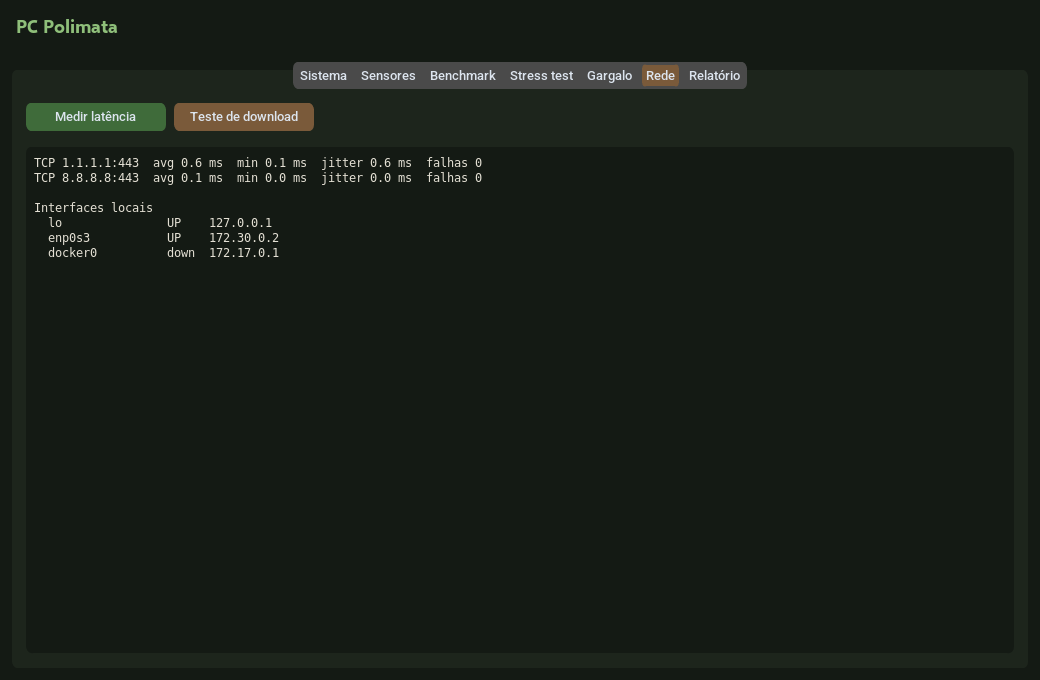
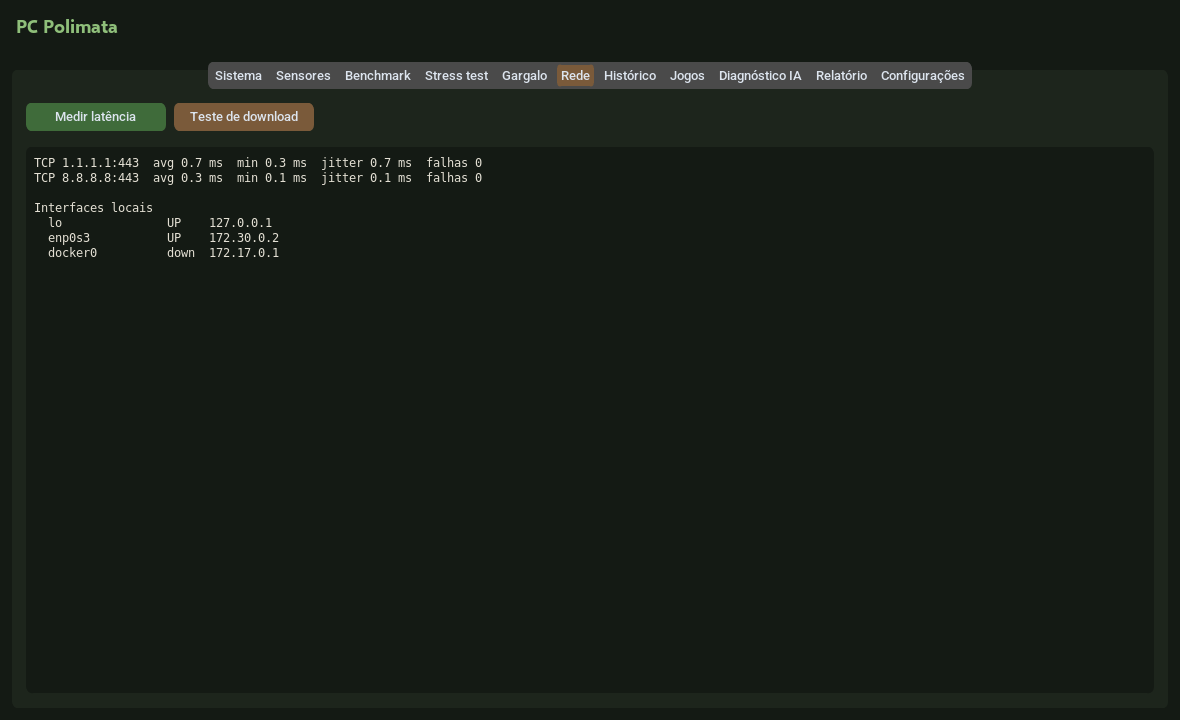
feat(gui): adaptive history chart, CPU/GPU pickers in Jogos and local timestamps
Also refreshes the README screenshots for every tab; demo actions live in scripts/screenshot.py, not in product code.

Changed region(s): [[0.0308, 0.0618, 0.8308, 0.4015], [0.0, 0.0309, 0.1231, 0.0618]]

diff --git a/pc_polimata/gui/tabs/history.py b/pc_polimata/gui/tabs/history.py
@@ -1,5 +1,7 @@
 from __future__ import annotations
 
+from datetime import datetime
+
 import customtkinter as ctk
 
 from pc_polimata.core.history import PRIMARY_METRICS, compare, series
@@ -9,6 +11,10 @@ from pc_polimata.gui.widgets import LineChart, button, fmt, set_text, textbox
 from pc_polimata.i18n import tr
 
 KIND_LABELS = {"cpu": "CPU", "disk": "Disco", "memory": "Memória"}
+
+
+def _local(iso: str) -> str:
+    return datetime.fromisoformat(iso).astimezone().strftime("%Y-%m-%d %H:%M:%S")
 
 
 class HistoryTab:
@@ -60,8 +66,11 @@ class HistoryTab:
         for i in range(len(runs)):
             rolling.append(**{m: (values[m][i] / peaks[m] * 100 if values[m][i] else None) for m in metrics})
         self.chart.series = rolling
+        self.chart.labels = {m: m.replace("_", " ") for m in metrics}
+        known = [v for m in metrics for v in rolling.values(m) if v is not None]
+        self.chart.vmin = max(0.0, (min(known) // 5) * 5 - 5) if known else 0.0
         self.chart.redraw()
-        self.chart_label.configure(text=f"{' / '.join(metrics)} — % do melhor resultado, mais antigo → recente")
+        self.chart_label.configure(text="% do melhor resultado de cada métrica (eixo ajustado), mais antigo → recente")
 
         lines = []
         if len(runs) >= 2:
@@ -71,12 +80,9 @@ class HistoryTab:
                 arrow = "" if change is None else ("▲" if change > 0 else "▼" if change < 0 else "=")
                 lines.append(f"  {metric:<20} {fmt(d['old']):>10} → {fmt(d['new']):>10}  {arrow} {fmt(change, '%')}")
             lines.append("")
-        lines.append(f"{'#':>4}  {'data (UTC)':<20} " + "  ".join(f"{m:>18}" for m in metrics))
+        lines.append(f"{'#':>4}  {'data (local)':<20} " + "  ".join(f"{m:>18}" for m in metrics))
         for r in runs:
             lines.append(
-                f"{r.id:>4}  {r.created_at[:19]:<20} " + "  ".join(f"{fmt(r.metrics.get(m)):>18}" for m in metrics)
+                f"{r.id:>4}  {_local(r.created_at):<20} " + "  ".join(f"{fmt(r.metrics.get(m)):>18}" for m in metrics)
             )
         set_text(self.box, "\n".join(lines))
-
-    def screenshot_prepare(self) -> None:
-        self.refresh()

diff --git a/pc_polimata/gui/widgets.py b/pc_polimata/gui/widgets.py
@@ -53,20 +53,33 @@ class LineChart(tk.Canvas):
 
     COLORS = (t.GREEN_LIGHT, t.BROWN_LIGHT, t.SKY)
 
-    def __init__(self, master, series: RollingSeries, height: int = 160, vmax: float = 100.0) -> None:
+    def __init__(
+        self,
+        master,
+        series: RollingSeries,
+        height: int = 160,
+        vmax: float = 100.0,
+        vmin: float = 0.0,
+        labels: dict[str, str] | None = None,
+    ) -> None:
         super().__init__(master, height=height, bg=t.BG, highlightthickness=0)
-        self.series, self.vmax = series, vmax
+        self.series, self.vmax, self.vmin = series, vmax, vmin
+        self.labels = labels or {}
         self.bind("<Configure>", lambda _e: self.redraw())
 
     def redraw(self) -> None:
         self.delete("all")
         w, h = max(self.winfo_width(), 2), max(self.winfo_height(), 2)
+        top = 22  # espaço da legenda
         for frac in (0.25, 0.5, 0.75):
-            y = h * frac
+            y = top + (h - top) * frac
             self.create_line(0, y, w, y, fill=t.GRID, dash=(2, 4))
+        legend_x = 8
         for i, name in enumerate(self.series.names):
             color = self.COLORS[i % len(self.COLORS)]
-            for seg in to_points(self.series.values(name), w, h - 2, self.series.maxlen, self.vmax):
+            for seg in to_points(self.series.values(name), w, h - top - 2, self.series.maxlen, self.vmax, self.vmin):
                 if len(seg) > 1:
-                    self.create_line(*[c for p in seg for c in p], fill=color, width=2)
-            self.create_text(8 + i * 70, 10, text=f"■ {name.upper()}", fill=color, anchor="w", font=(t.FONT[0], 10))
+                    self.create_line(*[c for x, y in seg for c in (x, y + top)], fill=color, width=2)
+            label = f"■ {self.labels.get(name, name.upper())}"
+            item = self.create_text(legend_x, 10, text=label, fill=color, anchor="w", font=(t.FONT[0], 10))
+            legend_x = self.bbox(item)[2] + 16

diff --git a/scripts/screenshot.py b/scripts/screenshot.py
@@ -6,6 +6,7 @@ Uso: python scripts/screenshot.py [Aba=segundos ...]   ex.: Sistema=2 Sensores=2
 import os
 import sys
 import tempfile
+import unicodedata
 from pathlib import Path
 
 sys.path.insert(0, str(Path(__file__).resolve().parents[1]))
@@ -16,8 +17,37 @@ from PIL import ImageGrab  # noqa: E402
 from pc_polimata.gui.app import PolimataApp  # noqa: E402
 from pc_polimata.i18n import tr  # noqa: E402
 
-DEFAULT = ["Sistema=2", "Sensores=20", "Rede=2"]
+DEFAULT = [
+    "Sistema=2",
+    "Sensores=20",
+    "Rede=3",
+    "Histórico=2",
+    "Jogos=2",
+    "Diagnóstico IA=3",
+    "Configurações=1",
+]
+
+
+def _demo_games(tab) -> None:
+    # A VM de captura não tem GPU; mostra um exemplo com hardware comum.
+    tab.cpu.set("Ryzen 5 5600X")
+    tab.gpu.set("RTX 3060")
+    tab.refresh()
+
+
+# Ações executadas antes de capturar cada aba (apenas para as imagens do README).
+DEMO_ACTIONS = {
+    "Rede": lambda tab: tab.run_latency(),
+    "Histórico": lambda tab: tab.refresh(),
+    "Jogos": _demo_games,
+    "Diagnóstico IA": lambda tab: tab.run(),
+}
 W, H = 1180, 720
+
+
+def slug(name: str) -> str:
+    ascii_name = unicodedata.normalize("NFKD", name).encode("ascii", "ignore").decode()
+    return ascii_name.lower().replace(" ", "_")
 
 
 def main(specs: list[str]) -> None:
@@ -31,12 +61,11 @@ def main(specs: list[str]) -> None:
             return
         name, secs = queue.pop(0)
         app.tabs.set(tr(name))
-        prepare = getattr(app.tab_objects[name], "screenshot_prepare", None)
-        if prepare:
-            prepare()
+        if name in DEMO_ACTIONS:
+            DEMO_ACTIONS[name](app.tab_objects[name])
 
         def snap() -> None:
-            out = Path("docs") / f"screenshot_{name.lower().replace(' ', '_')}.png"
+            out = Path("docs") / f"screenshot_{slug(name)}.png"
             ImageGrab.grab(bbox=(0, 0, W, H)).save(out)
             print(out)
             step()

diff --git a/pc_polimata/gui/tabs/games.py b/pc_polimata/gui/tabs/games.py
@@ -18,6 +18,15 @@ class GamesTab:
         ).pack(anchor="w", padx=8, pady=(8, 0))
         bar = ctk.CTkFrame(master, fg_color="transparent")
         bar.pack(fill="x", padx=8, pady=8)
+        ctk.CTkLabel(bar, text="CPU:").pack(side="left")
+        self.cpu = ctk.CTkOptionMenu(
+            bar,
+            values=[AUTO, *games.known_cpus()],
+            command=lambda _v: self.refresh(),
+            fg_color=t.GREEN,
+            button_color=t.GREEN_HOVER,
+        )
+        self.cpu.pack(side="left", padx=(6, 16))
         ctk.CTkLabel(bar, text="GPU:").pack(side="left")
         self.gpu = ctk.CTkOptionMenu(
             bar,
@@ -31,8 +40,12 @@ class GamesTab:
         self.refresh()
 
     def refresh(self) -> None:
-        choice = self.gpu.get()
-        est = games.estimate_for_system(self.app.system, gpu_override=None if choice == AUTO else choice)
+        gpu, cpu = self.gpu.get(), self.cpu.get()
+        est = games.estimate_for_system(
+            self.app.system,
+            gpu_override=None if gpu == AUTO else gpu,
+            cpu_override=None if cpu == AUTO else cpu,
+        )
         self.app.record("games_estimate", est)
         lines = [
             f"CPU: {fmt(est['cpu'])}  (tier {fmt(est['cpu_tier'])}/10)",
@@ -41,7 +54,7 @@ class GamesTab:
             f"{'Jogo':<26} {'Preset provável (1080p ~60 FPS)':<32} Limitado por",
             "-" * 74,
         ]
-        lines += [f"{g['game']:<26} {g['preset']:<32} {fmt(g['limited_by'])}" for g in est["games"]]
+        lines += [f"{g['game']:<26} {g['preset']:<32} {g['limited_by'] or '—'}" for g in est["games"]]
         if est["gpu_tier"] is None or est["cpu_tier"] is None:
-            lines += ["", "CPU ou GPU fora da tabela: escolha uma GPU equivalente no menu acima."]
+            lines += ["", "CPU ou GPU fora da tabela: escolha um modelo equivalente nos menus acima."]
         set_text(self.box, "\n".join(lines))

diff --git a/pc_polimata/core/timeseries.py b/pc_polimata/core/timeseries.py
@@ -30,14 +30,19 @@ class RollingSeries:
 
 
 def to_points(
-    values: list[float | None], width: float, height: float, maxlen: int, vmax: float = 100.0
+    values: list[float | None],
+    width: float,
+    height: float,
+    maxlen: int,
+    vmax: float = 100.0,
+    vmin: float = 0.0,
 ) -> list[list[tuple[float, float]]]:
     """Converte valores em segmentos de coordenadas de tela (None quebra a linha).
 
     Valores mais recentes ficam à direita; y=0 é o topo do canvas.
     """
-    if vmax <= 0:
-        raise ValueError("vmax must be positive")
+    if vmax <= vmin:
+        raise ValueError("vmax must be greater than vmin")
     step = width / (maxlen - 1)
     offset = maxlen - len(values)
     segments: list[list[tuple[float, float]]] = [[]]
@@ -46,6 +51,6 @@ def to_points(
             if segments[-1]:
                 segments.append([])
             continue
-        clamped = min(max(v, 0.0), vmax)
-        segments[-1].append(((offset + i) * step, height - clamped / vmax * height))
+        clamped = min(max(v, vmin), vmax)
+        segments[-1].append(((offset + i) * step, height - (clamped - vmin) / (vmax - vmin) * height))
     return [s for s in segments if s]

diff --git a/tests/test_timeseries.py b/tests/test_timeseries.py
@@ -25,3 +25,10 @@ def test_to_points_right_aligned_and_clamped():
 def test_to_points_breaks_on_none():
     segs = to_points([10, None, 20, 30], width=30, height=100, maxlen=4)
     assert len(segs) == 2 and len(segs[1]) == 2
+
+
+def test_to_points_with_vmin():
+    [seg] = to_points([90, 100], width=10, height=100, maxlen=2, vmin=80)
+    assert seg == [(0.0, 50.0), (10.0, 0.0)]
+    with pytest.raises(ValueError):
+        to_points([1], 10, 10, 2, vmax=5, vmin=5)

diff --git a/pc_polimata/core/games.py b/pc_polimata/core/games.py
@@ -100,3 +100,8 @@ def estimate_for_system(system: dict, gpu_override: str | None = None, cpu_overr
 def known_gpus() -> list[str]:
     data = load_tiers()
     return [name for tier in sorted(data["gpu_tiers"], key=int, reverse=True) for name in data["gpu_tiers"][tier]]
+
+
+def known_cpus() -> list[str]:
+    data = load_tiers()
+    return [name for tier in sorted(data["cpu_tiers"], key=int, reverse=True) for name in data["cpu_tiers"][tier]]

diff --git a/pc_polimata/gui/tabs/network.py b/pc_polimata/gui/tabs/network.py
@@ -28,9 +28,6 @@ class NetworkTab:
         self.interfaces = "\n".join(lines)
         set_text(self.box, self.interfaces)
 
-    def screenshot_prepare(self) -> None:
-        self.run_latency()
-
     def _show(self) -> None:
         set_text(self.box, "\n".join([*self.results, "", self.interfaces]))
 

diff --git a/pc_polimata/gui/tabs/diagnosis.py b/pc_polimata/gui/tabs/diagnosis.py
@@ -63,6 +63,3 @@ class DiagnosisTab:
         if res.llm_analysis:
             lines += ["", "— Análise do LLM —", res.llm_analysis]
         set_text(self.box, "\n".join(lines))
-
-    def screenshot_prepare(self) -> None:
-        self.run()

diff --git a/pc_polimata/__init__.py b/pc_polimata/__init__.py
@@ -1,3 +1,3 @@
 """PC Polimata - diagnóstico e benchmark de hardware em Python."""
 
-__version__ = "0.1.0"
+__version__ = "0.2.0"
